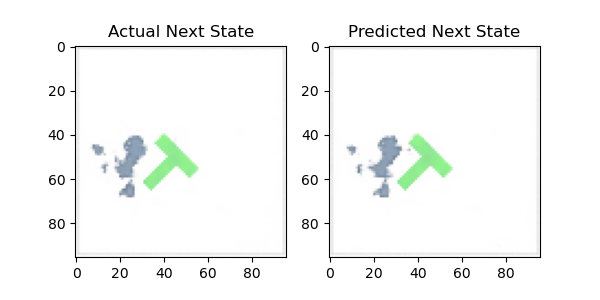
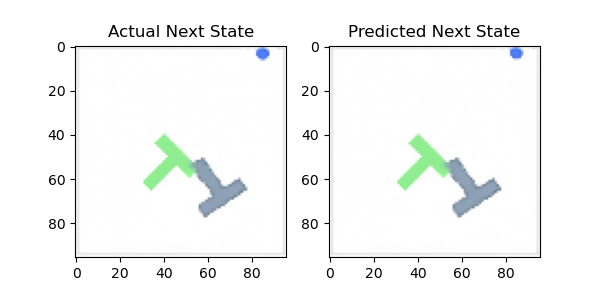
have to improve

diff --git a/Vision/train.py b/Vision/train.py
@@ -48,7 +48,7 @@ def train_vae(
     train_loader,
     val_loader,
     epochs=20,
-    lr=1e-4,
+    lr=1e-2,
     device="cuda",
     checkpoint_dir=v_config.CHECKPOINT_DIR,
     resume_from=None,
@@ -58,9 +58,11 @@ def train_vae(
     os.makedirs(checkpoint_dir, exist_ok=True)
     model.to(device)
     optimizer = torch.optim.Adam(model.parameters(), lr=lr)
+    scheduler = torch.optim.lr_scheduler.ReduceLROnPlateau(optimizer, mode='min', factor=0.5, patience=5)
+    
 
     start_epoch = 0
-    no_improvement_epochs = 0
+    no_improvement_count = 0
     best_val_loss = float("inf")
 
     if resume_from is not None and os.path.exists(resume_from):
@@ -88,12 +90,13 @@ def train_vae(
             for batch in val_loader:
                 batch = batch.to(device)
                 reconstructed, mu, logvar = model(batch)
-                loss = vae_loss(reconstructed, batch, mu, logvar)
+                loss = vae_loss(reconstructed, batch, mu, logvar, beta=v_config.BETA)
                 val_loss += loss.item()
 
         avg_val_loss = val_loss / len(val_loader.dataset)
-
-        print(f"Epoch {epoch+1}/{epochs} - Train Loss: {avg_train_loss:.4f}, Val Loss: {avg_val_loss:.4f}")
+        scheduler.step(avg_val_loss)   # ← 이 줄 추가
+        current_lr = optimizer.param_groups[0]['lr']
+        print(f"Epoch {epoch+1}/{epochs} - Train: {avg_train_loss:.4f}, Val: {avg_val_loss:.4f}, LR: {current_lr:.6f}")        
 
         # --- 매 epoch마다 최신 체크포인트 저장 (재개용) ---
         save_checkpoint(

diff --git a/Memory/SequenceDataset.py b/Memory/SequenceDataset.py
@@ -37,14 +37,14 @@ class SequenceDataset(Dataset):
 
 def get_datasets(episode_len=300, seq_len=m_config.SEQUENCE_LEN):
         train_dataset = SequenceDataset(
-            z=m_config.Z_TRAIN_DIR,
+            z=m_config.Z_DATA_TRAIN_DIR,
             actions=m_config.ACTION_TRAIN_DIR,
             next_z=m_config.NEXT_Z_TRAIN_DIR,
             episode_len=episode_len,
             seq_len=seq_len,
         )
         val_dataset = SequenceDataset(
-            z=m_config.Z_VAL_DIR,
+            z=m_config.Z_DATA_VAL_DIR,
             actions=m_config.ACTION_VAL_DIR,
             next_z=m_config.NEXT_Z_VAL_DIR,
             episode_len=episode_len,

diff --git a/Memory/encode_data.py b/Memory/encode_data.py
@@ -39,9 +39,9 @@ def encode_data(obs_path=m_config.OBS_TRAIN_DIR,
     np.save(f"{save_dir}/z.npy",z)
     np.save(f"{save_dir}/next_z.npy",next_z)
 
-    if save_dir == "./Worldmodel/z_data/train":
+    if save_dir == "/z_data/train":
         print(f"train 인코딩 완료: z shape {z.shape}, next_z shape {next_z.shape}")
-    if save_dir == "./Worldmodel/z_data/val":
+    if save_dir == "./z_data/val":
         print(f"val 인코딩 완료: z shape {z.shape}, next_z shape {next_z.shape}")
 
 if __name__ == "__main__":

diff --git a/Memory/m_config.py b/Memory/m_config.py
@@ -14,8 +14,10 @@ BATCH_SIZE = 256
 TRAIN_BATCH_SIZE = 64
 CKPT_LSTM_DIR = './checkpoints/best_lstm_checkpoint.pth'
 SAVE_DIR = "./Worldmodel/z_data"
-Z_VAL_DIR = "./z_data/val/z.npy"
-Z_TRAIN_DIR = "./z_data/train/z.npy"
+Z_VAL_DIR = "./z_data/val"
+Z_DATA_VAL_DIR = "./z_data/val/z.npy"
+Z_TRAIN_DIR = "./z_data/train"
+Z_DATA_TRAIN_DIR = "./z_data/train/z.npy"
 NEXT_Z_TRAIN_DIR = "./z_data/train/next_z.npy"
 NEXT_Z_VAL_DIR = "./z_data/val/next_z.npy"
 SEQUENCE_LEN = 30

diff --git a/Vision/show_result.py b/Vision/show_result.py
@@ -23,5 +23,5 @@ axes[0].imshow(sample[0].cpu().permute(1, 2, 0))
 axes[0].set_title("Original Image")
 axes[1].imshow(recon[0].cpu().permute(1, 2, 0))
 axes[1].set_title("Reconstructed Image")
-plt.savefig("C:/Users/zxfg0/WorldModel/reconstruction.png")
+#plt.savefig("C:/Users/zxfg0/WorldModel/reconstruction.png")
 plt.show()

diff --git a/Vision/v_config.py b/Vision/v_config.py
@@ -3,8 +3,8 @@ os.environ["KMP_DUPLICATE_LIB_OK"] = "TRUE"
 LATENT_DIM = 48
 FLATTEN_DIM = 4608
 BATCH_SIZE = 64
-LR = 1e-4
-EPOCHS = 500
+LR = 1e-3
+EPOCHS = 1000
 DEVICE = "cuda"
 NUM_EPISODES = 200
 MAX_STEPS = 300
